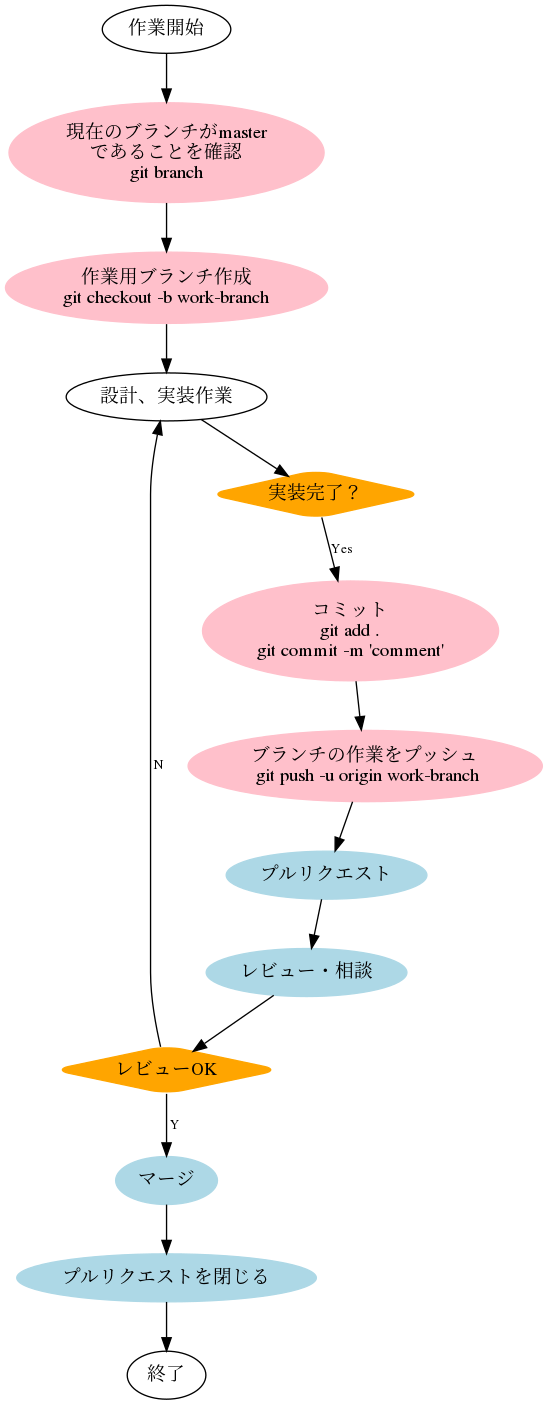
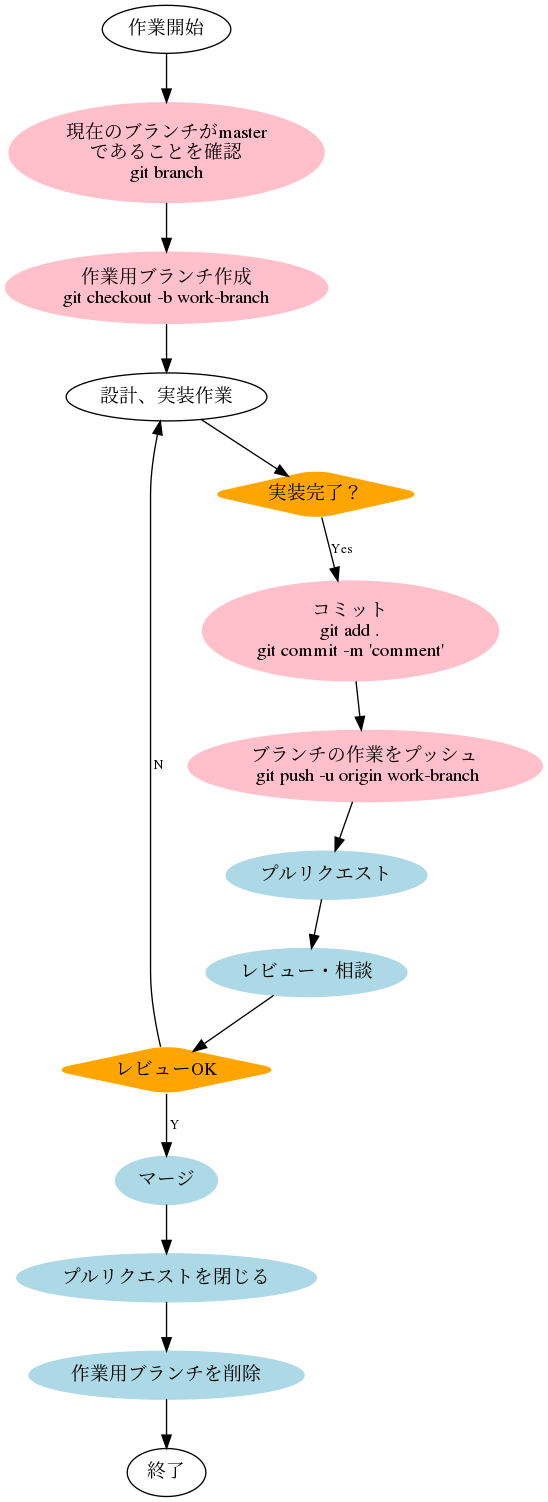
update flow

Changed region(s): [[0.0, 0.0, 0.9927, 1.0], [0.5584, 0.0918, 0.5894, 0.1224]]

diff --git a/lesson2/simple-github-flow.py b/lesson2/simple-github-flow.py
@@ -36,6 +36,7 @@ dot.node(node_pull_request_close, node_pull_request_close, style="filled", color
 dot.node(node_merge, node_merge, style="filled", color='lightblue', fontstyle="bold")
 dot.node(node_merge, node_merge, style="filled", color='lightblue', fontstyle="bold")
 dot.node(node_merge, node_merge, fontstyle="bold")
+dot.node(node_delete_topic_blanch, node_delete_topic_blanch, style="filled", color='lightblue', fontstyle="bold")
 dot.node(node_end, node_end, fontstyle="bold")
 
 ############### エッジ
@@ -52,6 +53,7 @@ dot.edge(node_review, node_if2)
 dot.edge(node_if2, node_merge, label=" Y", fontsize="10", fontstyle="bold")
 dot.edge(node_if2, node_design, label=" N", fontsize="10", fontstyle="bold")
 dot.edge(node_merge, node_pull_request_close)
-dot.edge(node_pull_request_close, node_end)
+dot.edge(node_pull_request_close, node_delete_topic_blanch)
+dot.edge(node_delete_topic_blanch, node_end)
 
 dot.render("simple-github-flow")
